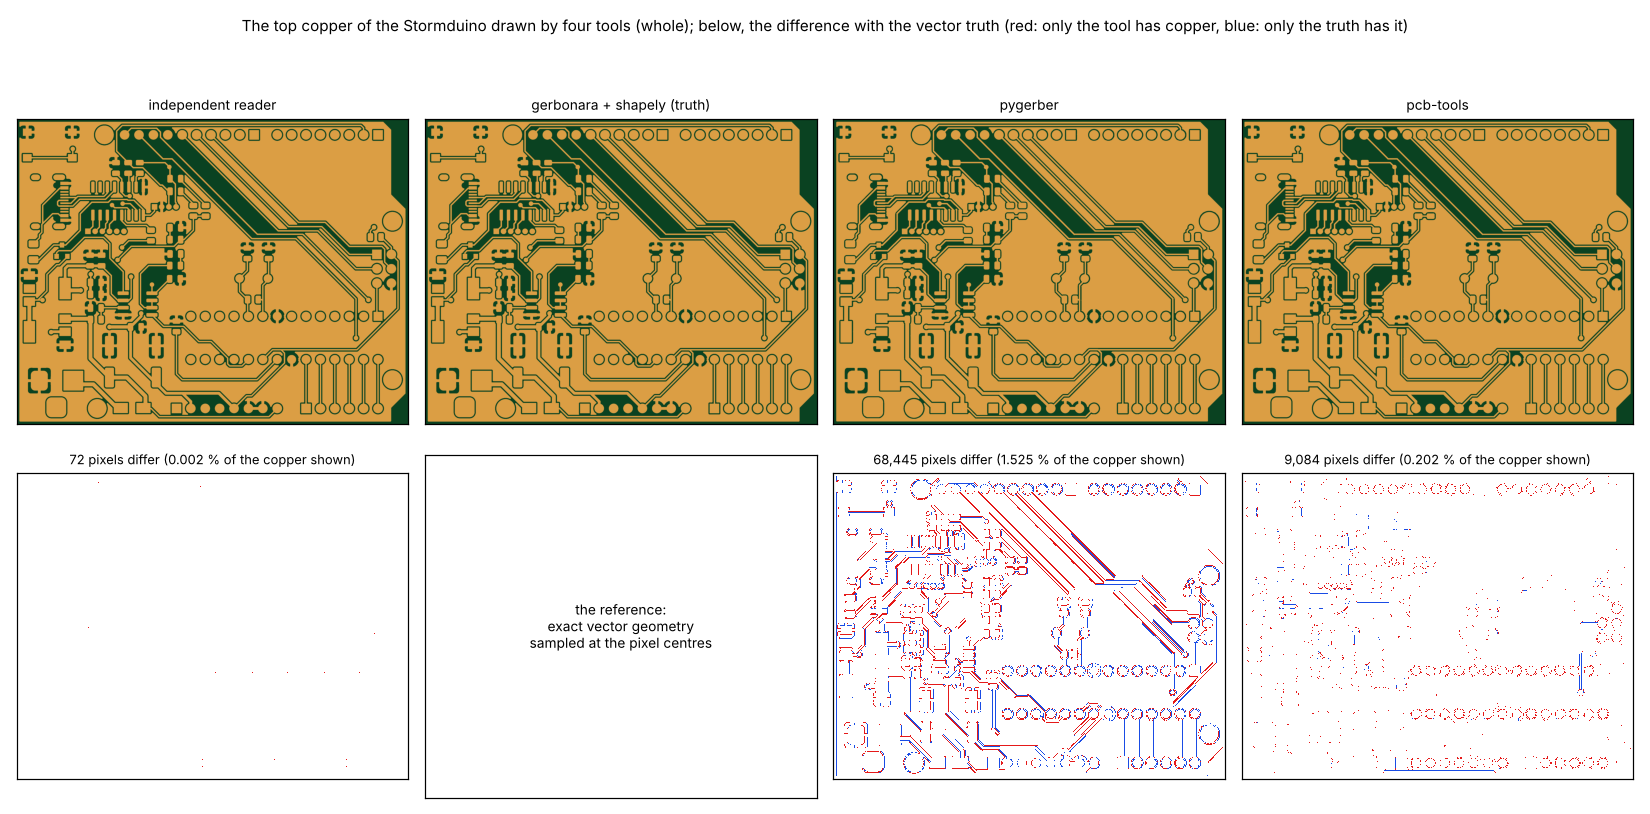
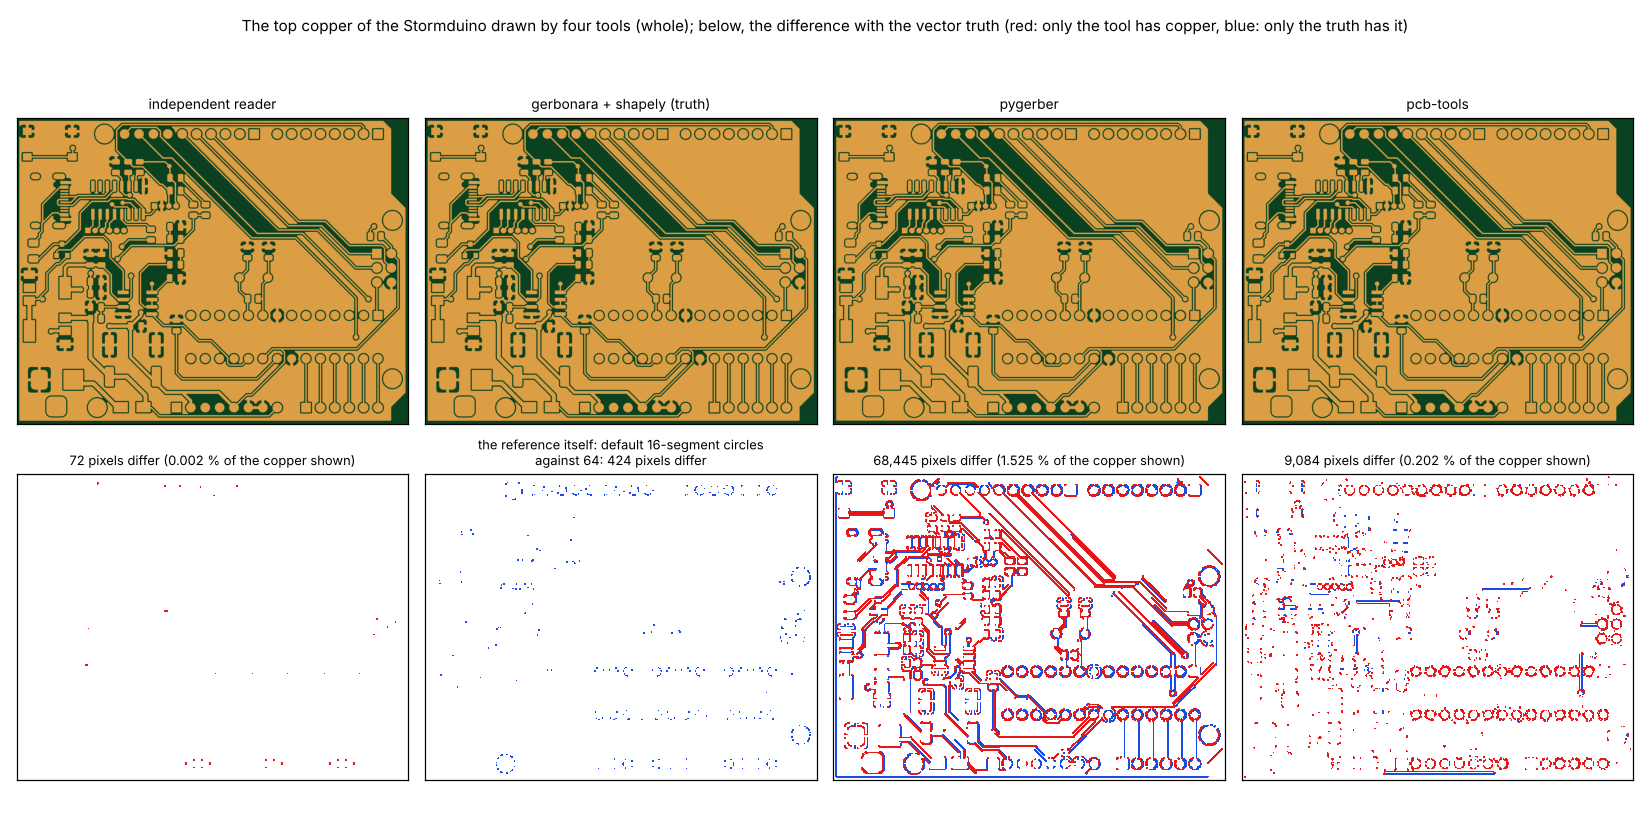
Show gerbonara's own difference in the render comparison
The gerbonara panel of the pixel comparison was an empty box with a
note and looked as if the file had not loaded. It now shows the pixels
where gerbonara's default 16-segment circles differ from the finer
truth.

Claude-Session: https://claude.ai/code/session_019ZX1Fbuj3xr3RpZFuubYJe

diff --git a/research/gerber-import/scripts/make_figures.py b/research/gerber-import/scripts/make_figures.py
@@ -336,7 +336,7 @@ def _render_compare_data():
     z = np.load(CACHE / "render_compare.npz")
     shape = tuple(int(v) for v in z["storm_shape"])
     masks = {}
-    for key, label in (("storm_independent", "independent reader"), ("storm_gerbonara", "gerbonara + shapely (truth)"), ("storm_pygerber", "pygerber"), ("storm_pcb-tools", "pcb-tools")):
+    for key, label in (("storm_independent", "independent reader"), ("storm_gerbonara", "gerbonara + shapely (truth)"), ("storm_pygerber", "pygerber"), ("storm_pcb-tools", "pcb-tools"), ("storm_gerbonara16", "gerbonara + shapely, default 16 segments")):
         masks[label] = np.unpackbits(z[key])[: shape[0] * shape[1]].reshape(shape).astype(bool)
     return masks, json.loads((CACHE / "render_compare.json").read_text())
 
@@ -348,7 +348,7 @@ def fig_render_compare():
     """
     masks, res = _render_compare_data()
     truth = masks["gerbonara + shapely (truth)"]
-    names = list(masks)
+    names = [n for n in masks if "16 segments" not in n]
     rows = res["storm_top"]["tools"]
     # the close-up: the 12 x 8 mm window with the most copper edge, found on a coarse grid
     from scipy import ndimage
@@ -361,13 +361,17 @@ def fig_render_compare():
             v = integral[r + win_h, c + win_w] - integral[r, c + win_w] - integral[r + win_h, c] + integral[r, c]
             if v > best:
                 best, at = v, (r, c)
-    for tag, crop, grow, size, fname in (("whole", (slice(None), slice(None)), 2, (15, 7.4), "fig_09_render_compare_whole_board.png"), ("close-up", (slice(at[0], at[0] + win_h), slice(at[1], at[1] + win_w)), 0, (15, 5.6), "fig_10_render_compare_close_up.png")):
+    for tag, crop, grow, size, fname in (("whole", (slice(None), slice(None)), 5, (15, 7.4), "fig_09_render_compare_whole_board.png"), ("close-up", (slice(at[0], at[0] + win_h), slice(at[1], at[1] + win_w)), 0, (15, 5.6), "fig_10_render_compare_close_up.png")):
         fig, axs = plt.subplots(2, 4, figsize=size)
         for j, name in enumerate(names):
             axs[0, j].imshow(_paint(masks[name][crop]), interpolation="antialiased")
             axs[0, j].set_title(name, fontsize=9)
             if name.startswith("gerbonara"):
-                axs[1, j].text(0.5, 0.5, "the reference:\nexact vector geometry\nsampled at the pixel centres", ha="center", va="center", fontsize=9, transform=axs[1, j].transAxes)
+                # the reference has no difference with itself: the panel shows its own polygon approximation of circles (16 segments per quarter turn) against the finer one
+                coarse = masks["gerbonara + shapely, default 16 segments"]
+                n_diff = int((coarse[crop] ^ truth[crop]).sum())
+                axs[1, j].imshow(_diff_image(coarse[crop], truth[crop], grow), interpolation="nearest")
+                axs[1, j].set_title(f"the reference itself: default 16-segment circles\nagainst 64: {n_diff:,} pixels differ", fontsize=8.5)
             else:
                 axs[1, j].imshow(_diff_image(masks[name][crop], truth[crop], grow), interpolation="nearest")
                 n_diff = int((masks[name][crop] ^ truth[crop]).sum())

diff --git a/research/gerber-import/scripts/study_render_compare.py b/research/gerber-import/scripts/study_render_compare.py
@@ -164,13 +164,18 @@ def part1(results, store):
     shifts = {}
     masks["pygerber"], shifts["pygerber"] = align(pygerber_mask(path, pix), tr)
     masks["pcb-tools"], shifts["pcb-tools"] = align(pcbtools_mask(path, pix, ((window[0], window[0] + window[2]), (y0 - 0.5, y1 + 0.5))), tr)
+    # gerbonara as the program of this folder calls it by default draws circles with 16 segments per quarter: kept to show its own difference from the finer truth
+    set_segments(16)
+    geom16, _ = gg.load_copper(path)
+    masks["gerbonara + shapely, default 16 segments"] = truth(geom16, window, pix)
+    set_segments(TRUTH_SEGMENTS)
     rows = {}
     for name, m in masks.items():
         diff = int((m ^ tr).sum())
         rows[name] = {"copper_pixels": int(m.sum()), "differing_pixels": diff, "differing_fraction_percent": 100.0 * diff / int(tr.sum()), "only_in_tool": int((m & ~tr).sum()), "only_in_truth": int((~m & tr).sum()), "shift": shifts.get(name)}
     results["storm_top"] = {"pixel_mm": pix, "shape": list(tr.shape), "window_mm": list(window), "tools": rows}
     for name, m in masks.items():
-        store["storm_" + name.split(" ")[0]] = np.packbits(m)
+        store["storm_" + ("gerbonara16" if "16 segments" in name else name.split(" ")[0])] = np.packbits(m)
     store["storm_shape"] = np.array(tr.shape)
     store["storm_window"] = np.array(window)
     # distance of the pixels where our reader differs to the exact edge, at this resolution

diff --git a/research/gerber-import/README.md b/research/gerber-import/README.md
@@ -240,7 +240,7 @@ The claim to test: the independent reader draws **the same copper** as the exact
 
 ![Figure 9](figures/fig_09_render_compare_whole_board.png)
 
-*Figure 9 (`figures/fig_09_render_compare_whole_board.png`): the whole top copper of the Stormduino (KiCad, MIT) at 0.025 mm drawn by the independent reader, gerbonara + shapely (the truth), pygerber and pcb-tools; below, the pixels where each differs from the truth (red: only the tool has copper, blue: only the truth has it; each differing pixel is enlarged to 5 x 5 pixels for display).*
+*Figure 9 (`figures/fig_09_render_compare_whole_board.png`): the whole top copper of the Stormduino (KiCad, MIT) at 0.025 mm drawn by the independent reader, gerbonara + shapely (the truth), pygerber and pcb-tools; below, the pixels where each differs from the truth (red: only the tool has copper, blue: only the truth has it; each differing pixel is enlarged for display). The truth cannot differ from itself, so its panel shows the difference of gerbonara's own default circles (16 segments per quarter turn) from the finer ones used as the truth (64): 424 pixels, all blue, along pads, vias and round ends.*
 
 ![Figure 10](figures/fig_10_render_compare_close_up.png)
 
@@ -251,6 +251,7 @@ The claim to test: the independent reader draws **the same copper** as the exact
 | Tool | Pixels that differ from the truth | % of the copper | Only the tool has copper | Only the truth has it |
 | :-- | --: | --: | --: | --: |
 | independent reader | 72 | 0.0016 % | 72 | 0 |
+| gerbonara + shapely with its default 16-segment circles (against the 64-segment truth) | 424 | 0.0094 % | 0 | 424 |
 | pcb-tools (cairo, anti-aliased, 50 % threshold) | 9,084 | 0.20 % | 4,476 | 4,608 |
 | pygerber (raster, anti-aliased, 50 % threshold) | 68,445 | 1.52 % | 41,178 | 27,267 |
 
